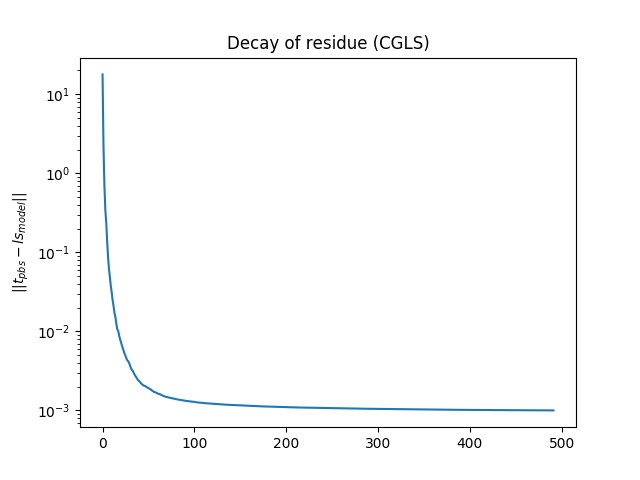
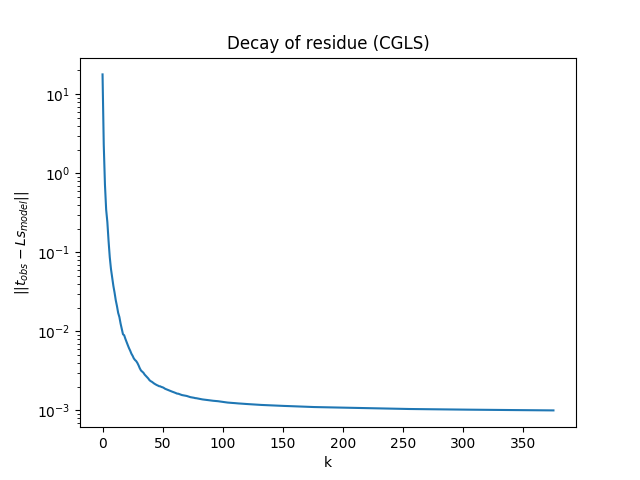
fix typo report hw3

diff --git a/HW03/pb1/cg.py b/HW03/pb1/cg.py
@@ -114,7 +114,8 @@ if __name__ == "__main__":
     # plt.show()
     plt.clf()
     plt.plot(LOG_ERRS)
-    plt.ylabel("$||t_{pbs}-ls_{model}||$")
+    plt.xlabel("k")
+    plt.ylabel("$||t_{obs}-Ls_{model}||$")
     plt.yscale("log")
     plt.title("Decay of residue (CGLS)")
     plt.savefig("cg_r.png")

diff --git a/HW03/pb1/sd.py b/HW03/pb1/sd.py
@@ -86,7 +86,8 @@ if __name__ == "__main__":
     # plt.show()
     plt.clf()
     plt.plot(LOG_ERRS)
-    plt.ylabel("$||t_{pbs}-ls_{model}||$")
+    plt.xlabel("k")
+    plt.ylabel("$||t_{obs}-Ls_{model}||$")
     plt.yscale("log")
     plt.title("Decay of residue (SD)")
     plt.savefig("sd_r.png")

diff --git a/HW03/README.md b/HW03/README.md
@@ -35,9 +35,9 @@
 #### Corner compare
 
 <p align="center">
-    <img src="pb1/real_v.png" width="300px" >
-    <img src="pb1/img/model_v_alpha024.png" width="300px" >
-    <img src="pb1/img/model_v_alpha015.png" width="300px" >
+    <img src="pb1/img/model_v_alpha024.png" width="250px" >
+    <img src="pb1/real_v.png" width="250px" >
+    <img src="pb1/img/model_v_alpha015.png" width="250px" >
     <br>
     <em>Real velocity map of the stone layer</em>
 </p>
